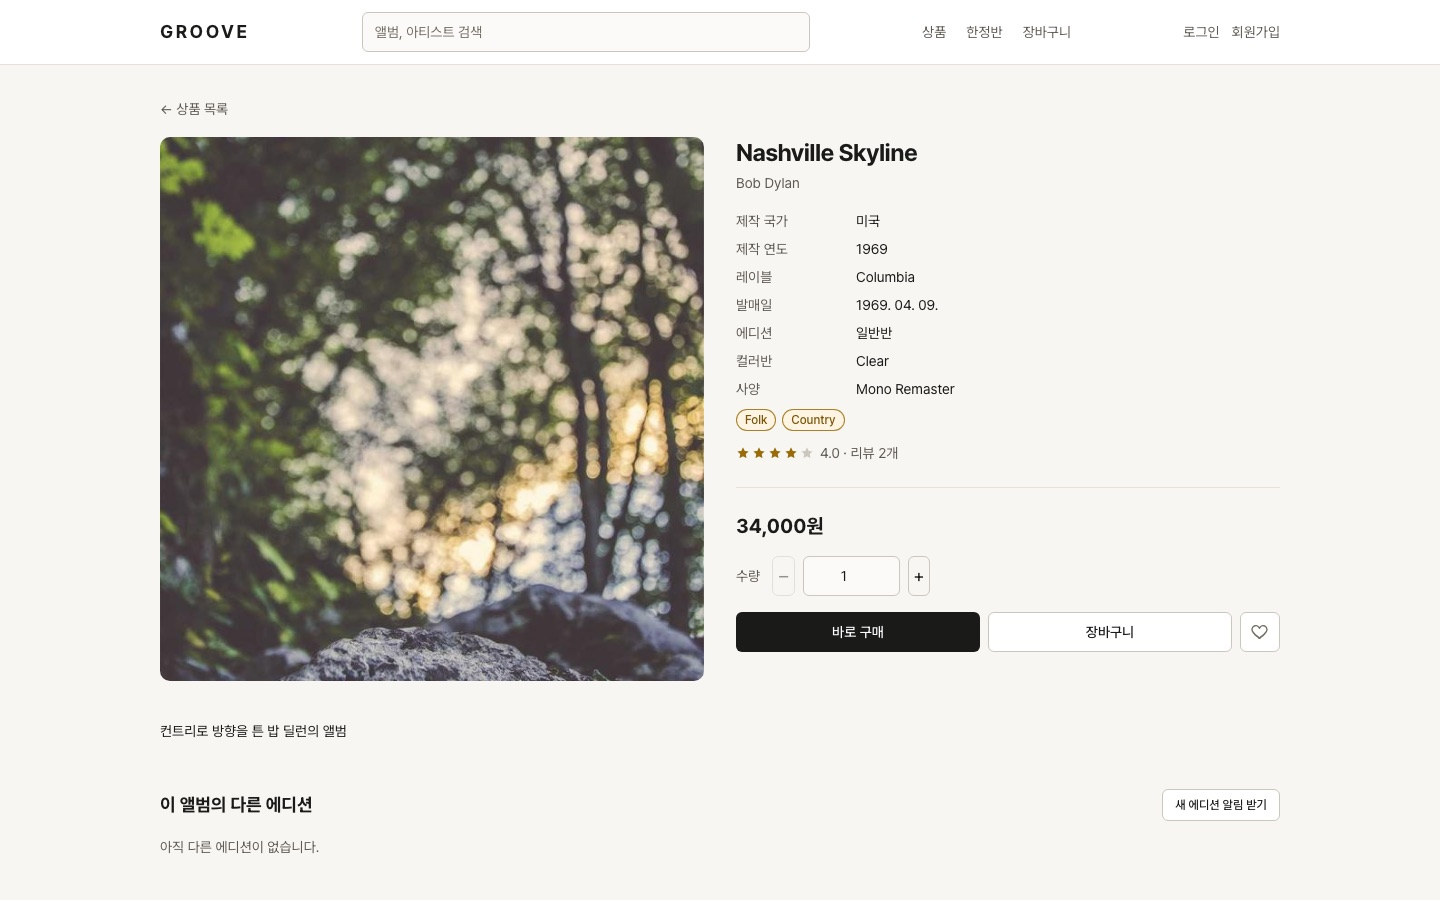
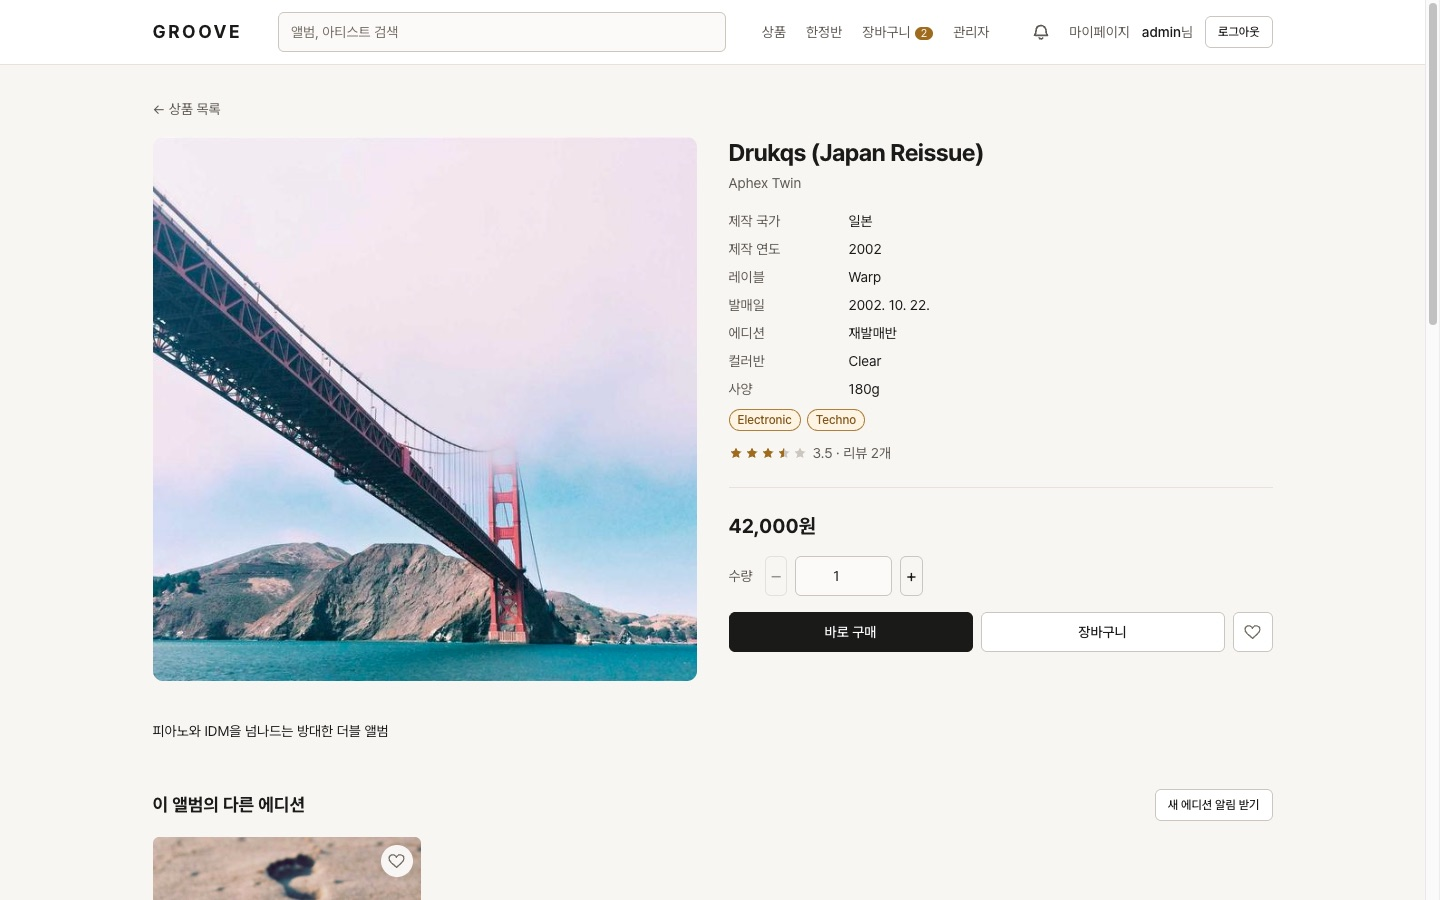
docs: 배포된 화면으로 스크린샷을 갱신하고 상품 목록을 추가한다
목록이 앨범당 대표 프레싱으로 축약되면서 총 개수가 앨범 기준(210종)이
되고 카드에 '다른 에디션 N종' 이 붙는다. 이 변화가 가장 잘 드러나는
상품 목록 화면을 주요 화면에 추가한다.

상세는 다른 에디션이 실제로 있는 상품으로 바꿔 프레싱 스펙 표와
'이 앨범의 다른 에디션' 이 함께 보이게 했다. 서비스 주소 설명의
카탈로그 규모도 앨범과 프레싱을 구분해 적는다.

diff --git a/README.md b/README.md
@@ -6,15 +6,15 @@ Java 17 / Spring Boot 3.5 + React 18로 만든 LP 이커머스다. 한정반(Lim
 
 **https://groove-lp.duckdns.org**
 
-실제 카탈로그 273건, 리뷰 546건이 올라가 있다.
+Discogs에서 적재한 실제 카탈로그가 올라가 있다 — 앨범 210종 · 프레싱 273건, 리뷰 546건.
 
 ## 주요 화면
 
 | | |
 |---|---|
-| ![홈](.github/assets/home.jpg) 홈 · 한정반 배너 · 개인화 추천 | ![상품 상세](.github/assets/product-detail.jpg) 상품 상세 |
-| ![한정반](.github/assets/limited-drop.jpg) 한정반 드롭 | ![장바구니](.github/assets/cart.jpg) 장바구니 |
-| ![관리자 상품 관리](.github/assets/admin-products.jpg) 관리자 · 상품 관리 | |
+| ![홈](.github/assets/home.jpg) 홈 · 한정반 배너 · 개인화 추천 | ![상품 목록](.github/assets/product-list.jpg) 상품 목록 · 앨범당 대표 프레싱으로 축약 |
+| ![상품 상세](.github/assets/product-detail.jpg) 상품 상세 · 프레싱 스펙과 다른 에디션 | ![한정반](.github/assets/limited-drop.jpg) 한정반 드롭 |
+| ![장바구니](.github/assets/cart.jpg) 장바구니 | ![관리자 상품 관리](.github/assets/admin-products.jpg) 관리자 · 상품 관리 |
 
 ## 주요 기능
 
